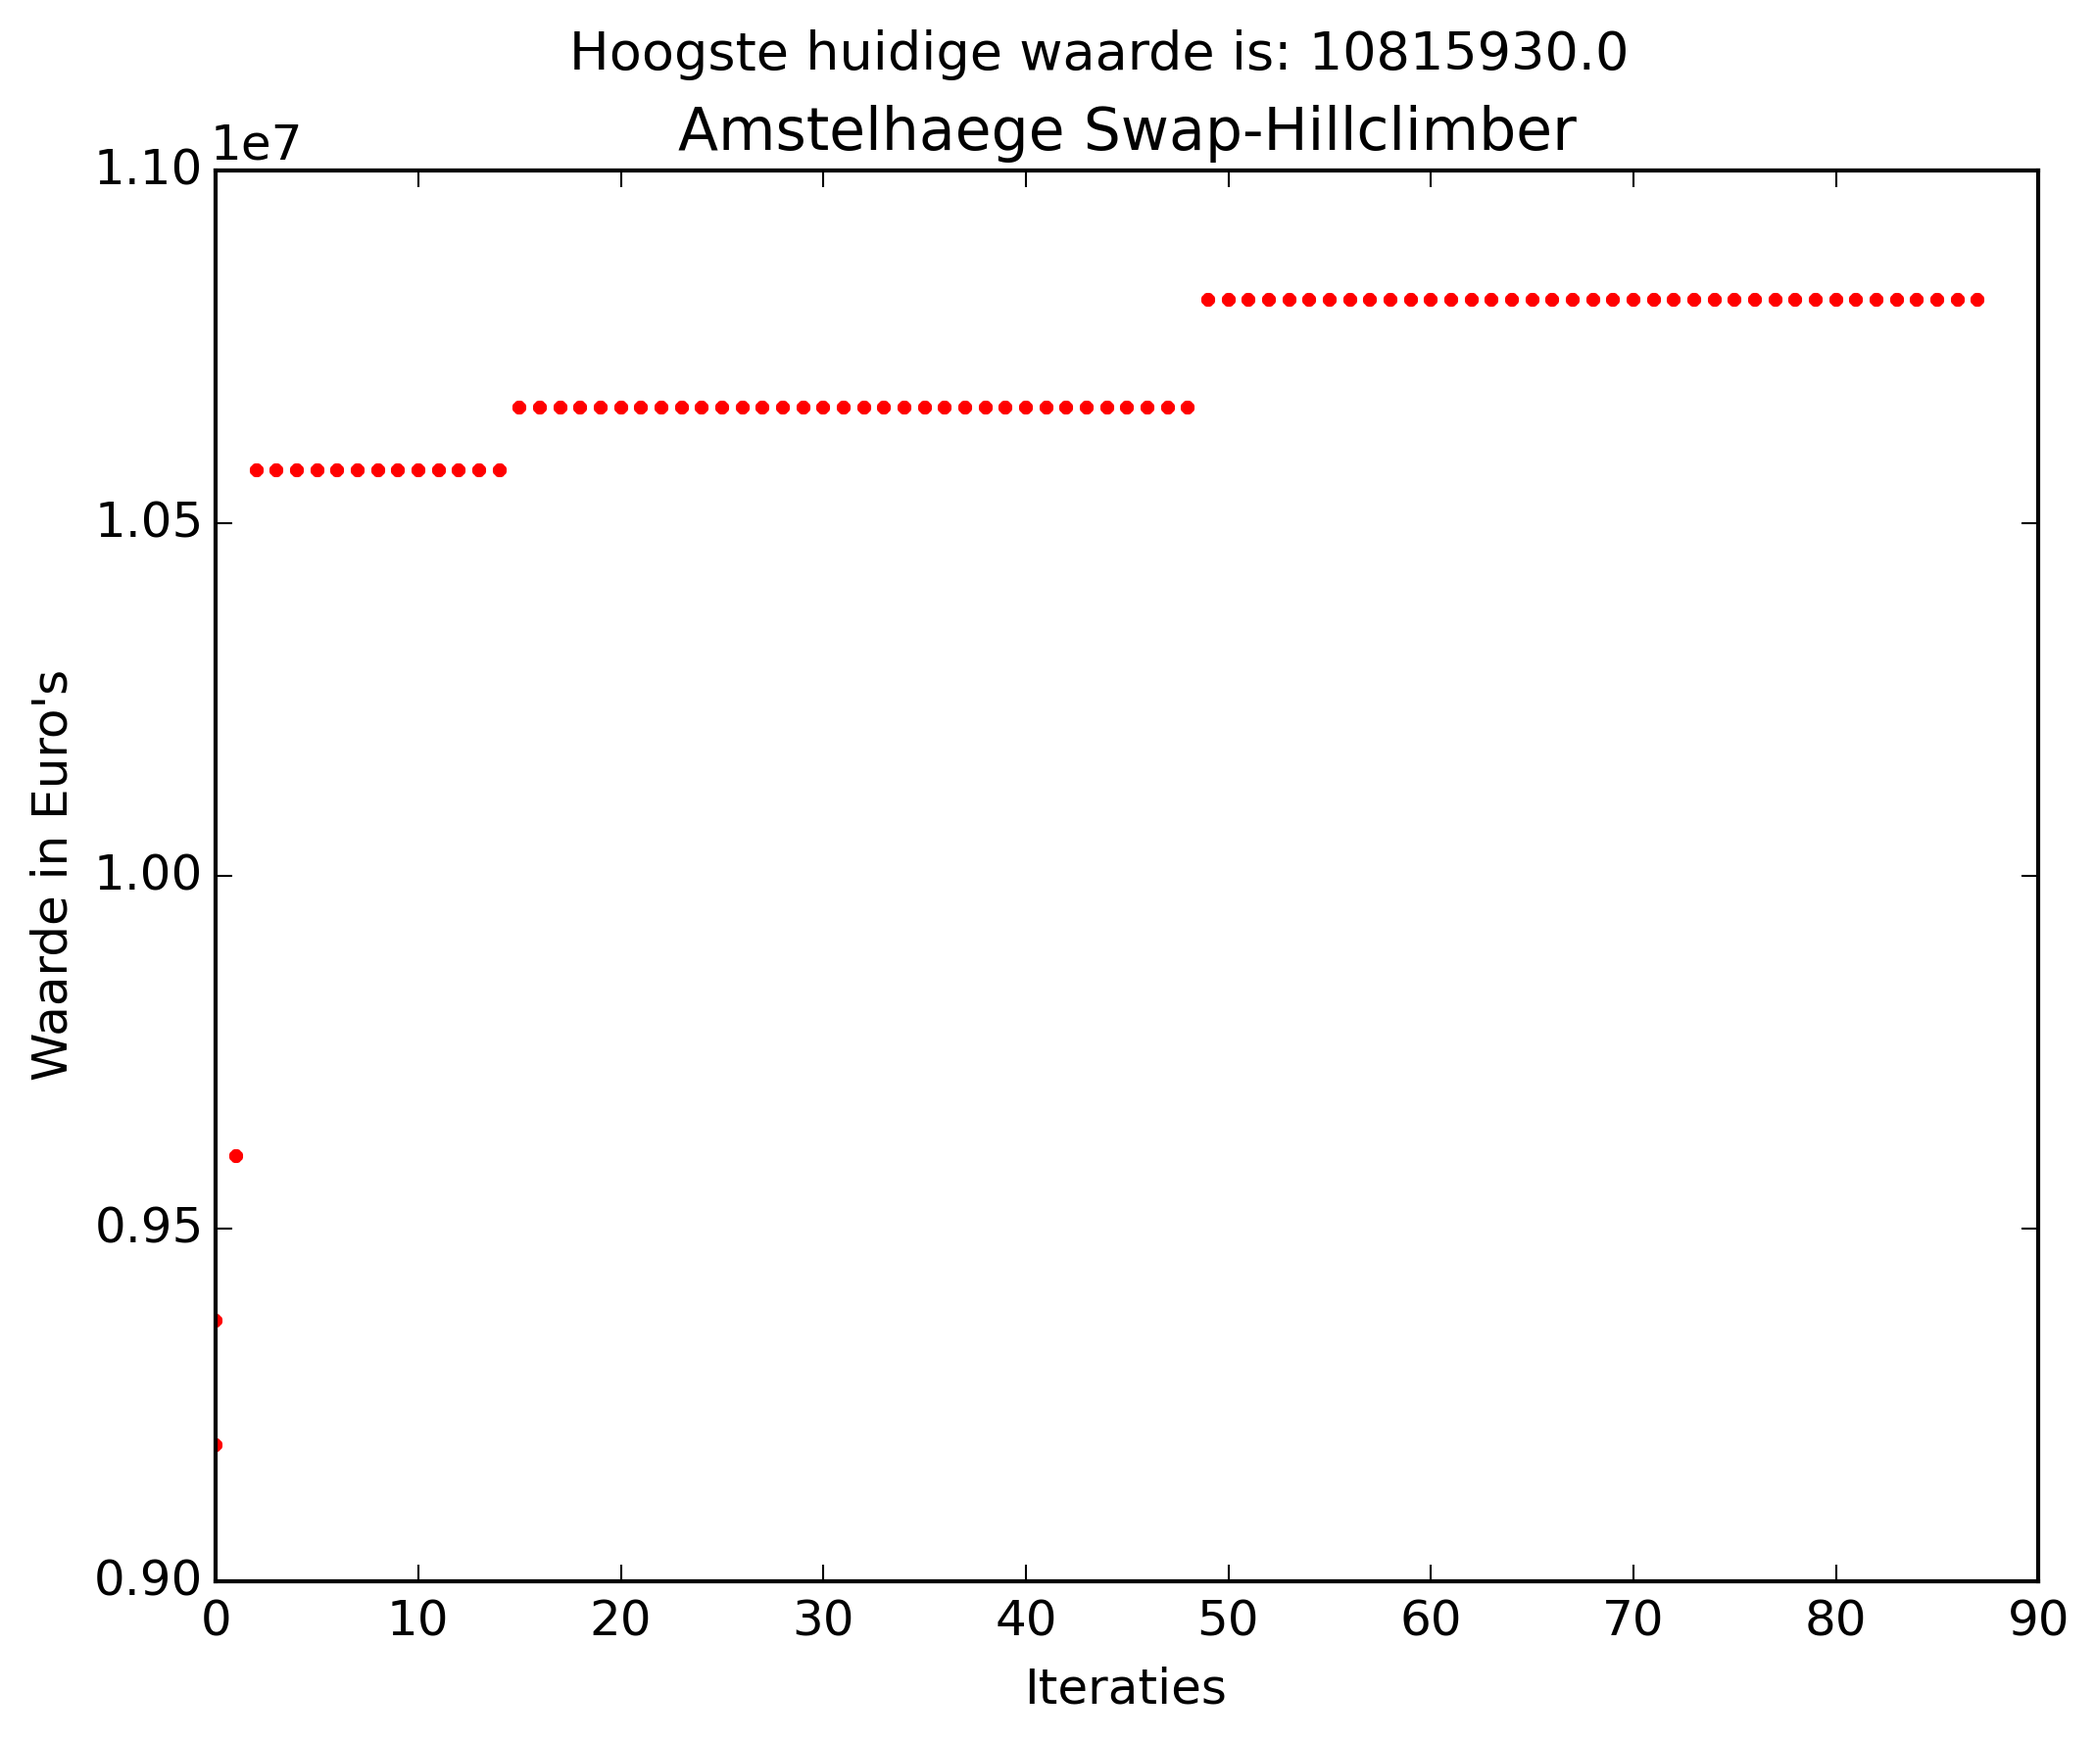
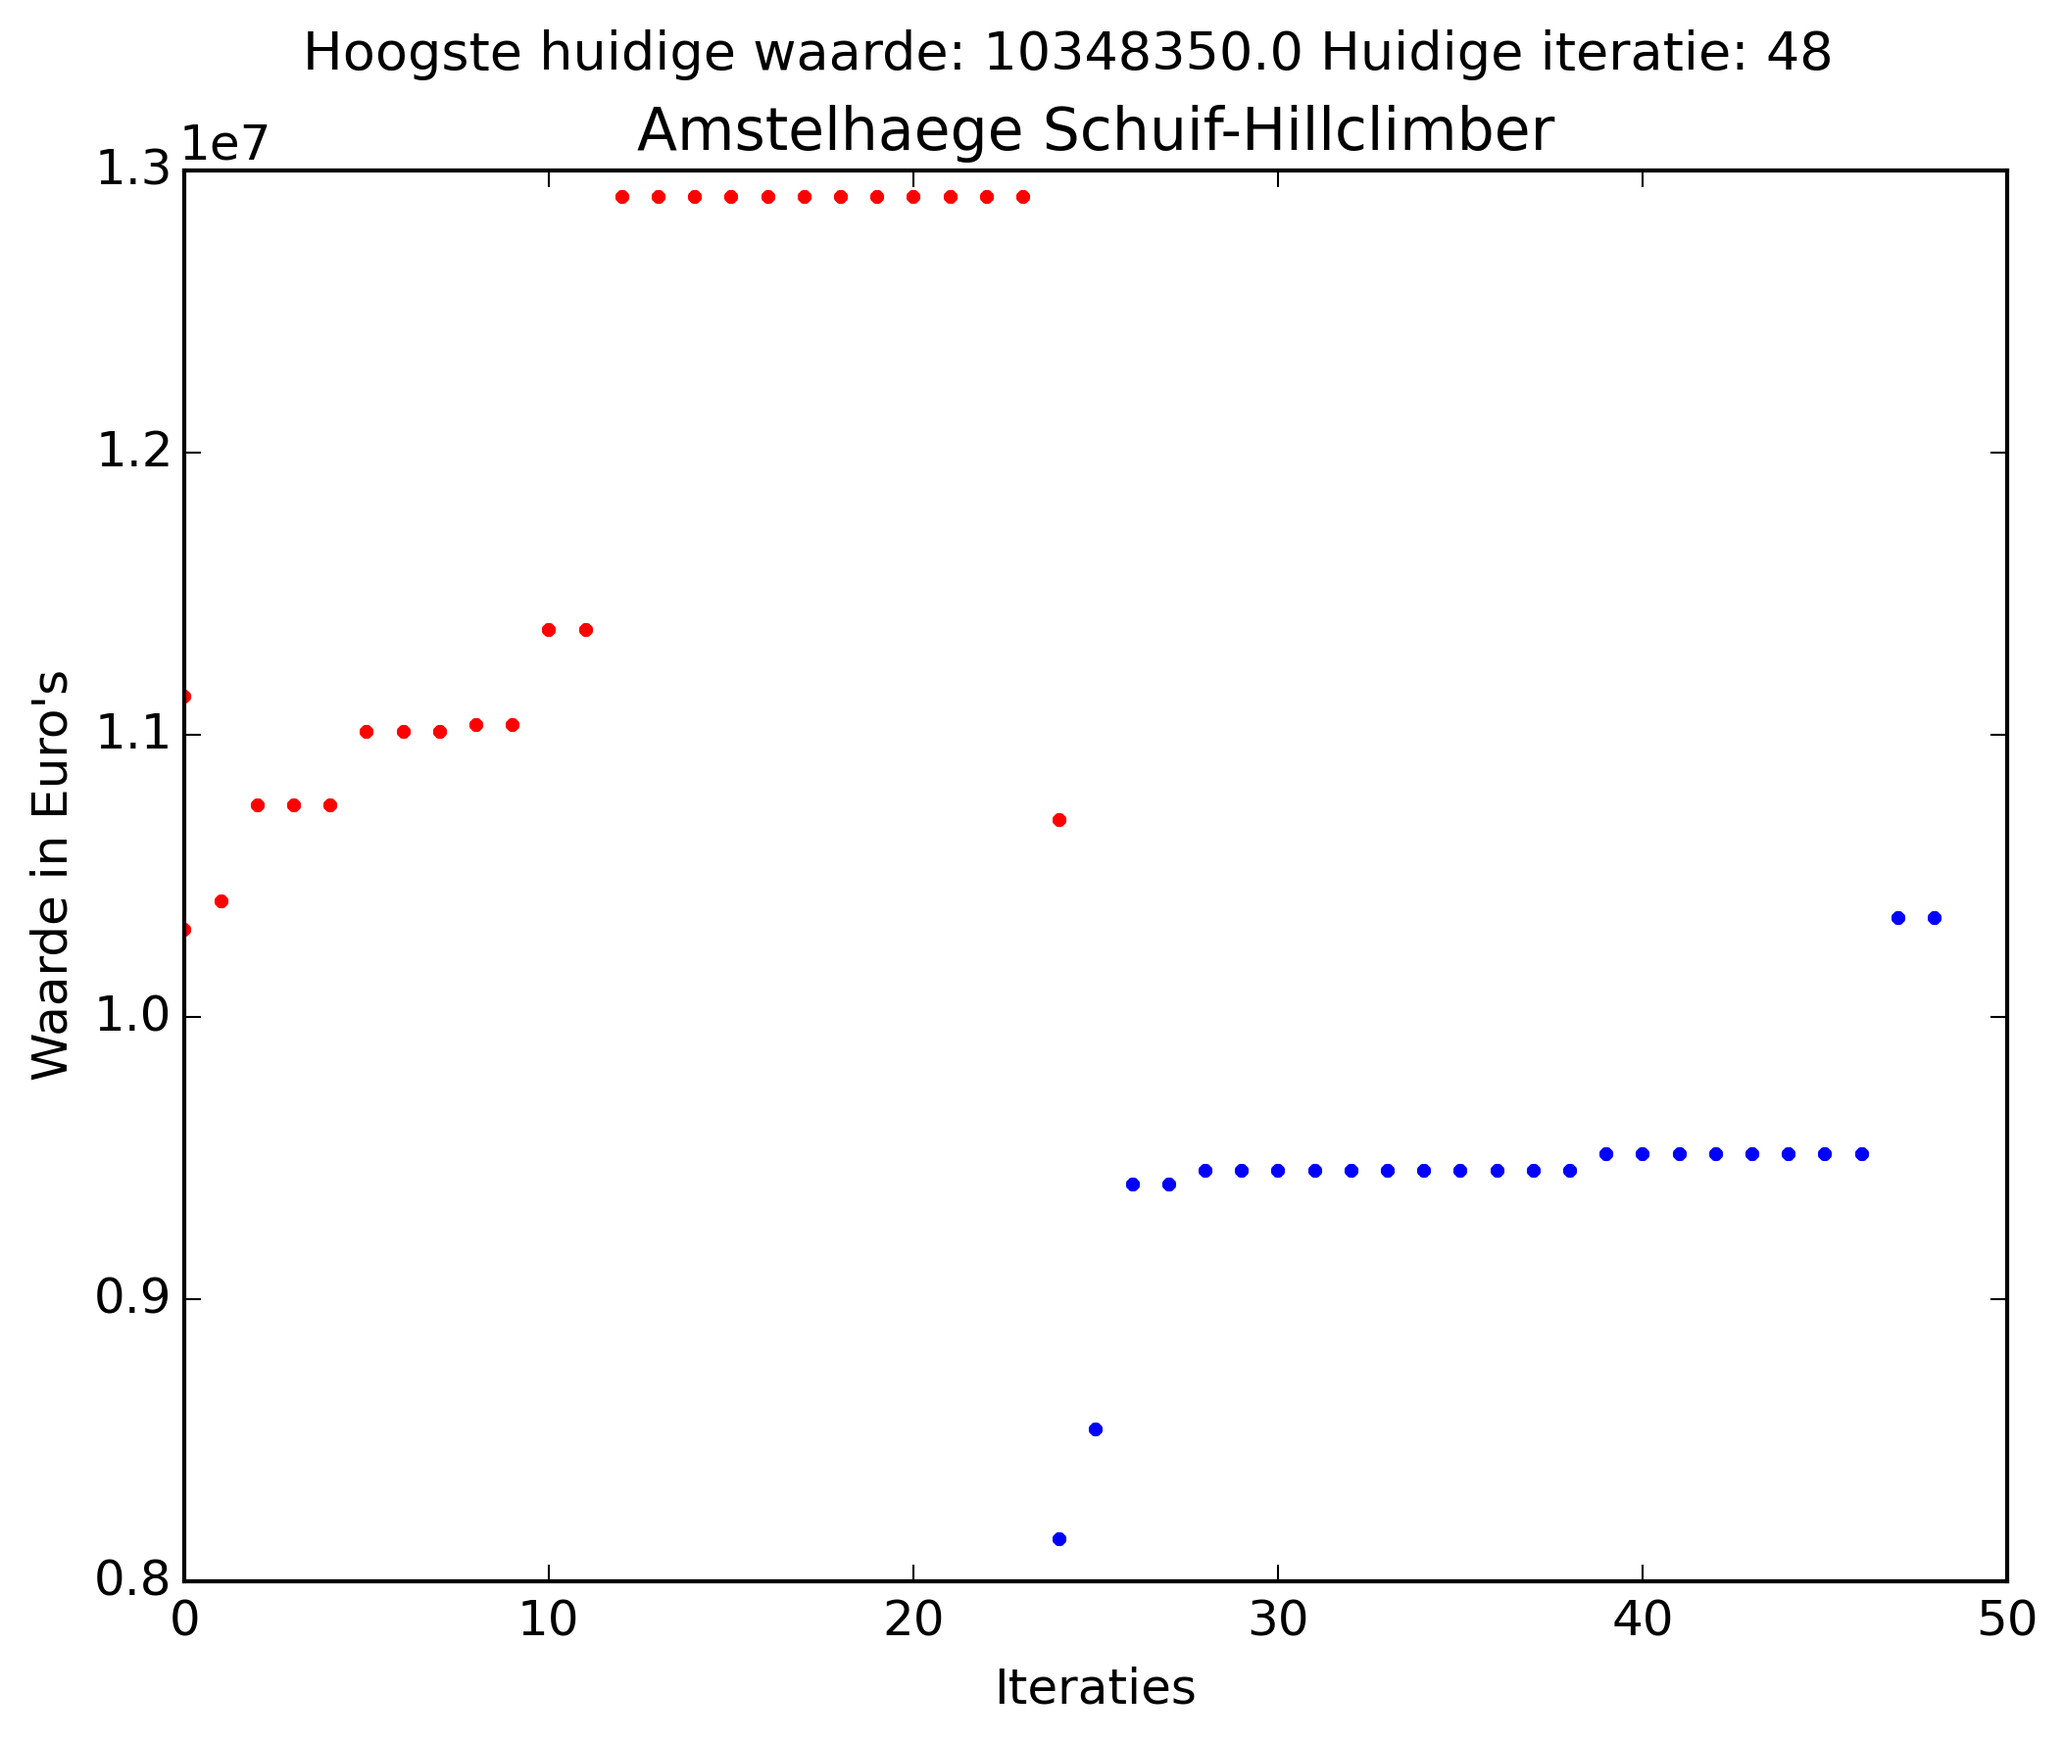
caps en maps gefikst

diff --git a/main.py b/main.py
@@ -41,15 +41,20 @@ toegestanemethoden = ["randsample", "schuiven", "swappen"]
 toegestanescore = ["waarde", "vrijstand"]
 aantalhuizen = int(sys.argv[1])
 aantalwater = 4
-
 uitkomsten = []
 hoogstewaarde = 0
 iteratie = 0
+maxverwerpen = 100
+verwerpen = 0
+randommapper = 500
 best = 0
 # 0 = scoren op vrijstand; 1 = scoren op waarde in euro's
 criterium = 0
 
-#sys.argv[] -> 1: aantal huizen; 2:methode; 3: score criterium
+#  afvangen hoeveelheid arguments!
+if len(sys.argv) > 4:
+    informWrongUsage()
+# sys.argv[] -> 1: aantal huizen; 2:methode; 3: score criterium
 if int(sys.argv[1]) not in toegestanehuizen:
     informWrongUsage()
 elif str(sys.argv[2]) not in toegestanemethoden:
@@ -61,8 +66,11 @@ if str(sys.argv[3]) == "waarde":
     criterium = 1
 
 # bouwen grafiek
+graphcolour = 'r'
+plt.figure(1)
 plt.xlabel('Iteraties')
 plt.ylabel('Waarde in Euro\'s')
+plt.suptitle("Hoogste huidige waarde: " + str(hoogstewaarde) + " Huidige iteratie: " + str(iteratie), fontsize=13)
 plt.ion()
 plt.show()
 
@@ -81,10 +89,14 @@ if sys.argv[2] == "randsample":
                 hoogstewaarde = temp[criterium]
                 best = combinatie
                 best.evalueer()
+                if iteratie % randommapper == 0:
+                    filename = str(sys.argv[1]) + str(sys.argv[2])
+                    mapMaken(best.houses, filename)
         uitkomsten.append(hoogstewaarde)
+        plt.figure(1)
         plt.plot(iteratie, hoogstewaarde, '.-r')
-        plt.draw()
         plt.suptitle("Hoogste huidige waarde: " + str(hoogstewaarde) + " Huidige iteratie: " + str(iteratie), fontsize=13)
+        plt.draw()
         plt.savefig('graph.png', dpi=300, bbox_inches='tight')
         iteratie += 1
 
@@ -93,17 +105,40 @@ elif str(sys.argv[2]) == "schuiven":
     combinatie = createRandom()
     # ga schuiven
     while True:
+        if verwerpen > maxverwerpen:
+            verwerpen = 0
+            hoogstewaarde = 0
+            if best != 0 and best.evaluatie[criterium] < combinatie.evaluatie[criterium]:
+                best = combinatie
+                filename = str(sys.argv[1]) + str(sys.argv[2])
+                mapMaken(best.houses,filename)
+            elif best == 0:
+                best = combinatie
+                filename = str(sys.argv[1]) + str(sys.argv[2])
+                mapMaken(best.houses, filename)
+            if graphcolour == 'r':
+                graphcolour = 'b'
+            else:
+                graphcolour = 'r'
+            combinatie = createRandom()
         if schuiven(combinatie) == True:
             combinatie.evalueer()
             temp = combinatie.evaluatie
             if temp[criterium] > hoogstewaarde:
                 hoogstewaarde = temp[criterium]
-                best = combinatie
-                best.evalueer()
+                verwerpen = 0
+            else:
+                verwerpen +=1
+        else:
+            verwerpen +=1
         uitkomsten.append(hoogstewaarde)
-        plt.plot(iteratie, hoogstewaarde, '.-r')
+        plt.figure(1)
+        plt.plot(iteratie, hoogstewaarde, '.-' + graphcolour)
+        if best != 0 and best.evaluatie[criterium] > hoogstewaarde:
+            plt.suptitle("Hoogste huidige waarde: " + str(best.evaluatie[criterium]) + " Huidige iteratie: " + str(iteratie), fontsize=13)
+        else:
+            plt.suptitle("Hoogste huidige waarde: " + str(hoogstewaarde) + " Huidige iteratie: " + str(iteratie), fontsize=13)
         plt.draw()
-        plt.suptitle("Hoogste huidige waarde: " + str(hoogstewaarde) + " Huidige iteratie: " + str(iteratie), fontsize=13)
         plt.savefig('graph.png', dpi=300, bbox_inches='tight')
         iteratie += 1
 
@@ -112,16 +147,39 @@ elif str(sys.argv[2]) == "swappen":
     combinatie = createRandom()
     # ga swappen
     while True:
+        if verwerpen > maxverwerpen:
+            verwerpen = 0
+            hoogstewaarde = 0
+            if best != 0 and best.evaluatie[criterium] < combinatie.evaluatie[criterium]:
+                best = combinatie
+                filename = str(sys.argv[1]) + str(sys.argv[2])
+                mapMaken(best.houses,filename)
+            elif best == 0:
+                best = combinatie
+                filename = str(sys.argv[1]) + str(sys.argv[2])
+                mapMaken(best.houses, filename)
+            if graphcolour == 'r':
+                graphcolour = 'b'
+            else:
+                graphcolour = 'r'
+            combinatie = createRandom()
         if swapHouse(combinatie) == True:
             combinatie.evalueer()
             temp = combinatie.evaluatie
             if temp[criterium] > hoogstewaarde:
                 hoogstewaarde = temp[criterium]
-                best = combinatie
-                best.evalueer()
+                verwerpen = 0
+            else:
+                verwerpen +=1
+        else:
+            verwerpen +=1
         uitkomsten.append(hoogstewaarde)
-        plt.plot(iteratie, hoogstewaarde, '.-r')
+        plt.figure(1)
+        plt.plot(iteratie, hoogstewaarde, '.-' + graphcolour)
+        if best != 0 and best.evaluatie[criterium] > hoogstewaarde:
+            plt.suptitle("Hoogste huidige waarde: " + str(best.evaluatie[criterium]) + " Huidige iteratie: " + str(iteratie), fontsize=13)
+        else:
+            plt.suptitle("Hoogste huidige waarde: " + str(hoogstewaarde) + " Huidige iteratie: " + str(iteratie), fontsize=13)
         plt.draw()
-        plt.suptitle("Hoogste huidige waarde: " + str(hoogstewaarde) + " Huidige iteratie: " + str(iteratie), fontsize=13)
         plt.savefig('graph.png', dpi=300, bbox_inches='tight')
         iteratie += 1

diff --git a/graph.py b/graph.py
@@ -1,8 +1,8 @@
 import matplotlib.pyplot as plt
 import matplotlib.patches as patches
 
-def mapMaken(huizen):
-	fig1 = plt.figure()
+def mapMaken(huizen, filename):
+	fig1 = plt.figure(2)
 	ax1 = fig1.add_subplot(111, aspect='equal')
 	plt.axis([0, 320, 0, 300])
 	plt.axis('off')
@@ -18,4 +18,5 @@ def mapMaken(huizen):
 		elif huizen[i].type == "Water":
 			ax1.add_patch(patches.Rectangle((huizen[i].hoekpunt.x, huizen[i].hoekpunt.y), huizen[i].width, huizen[i].length, facecolor="dodgerblue", edgecolor="none"))
 
-	fig1.savefig('map.png', dpi=300, bbox_inches='tight')
+	fig1.savefig('output/'+ filename + '.png', dpi=300, bbox_inches='tight')
+	plt.close(2)
